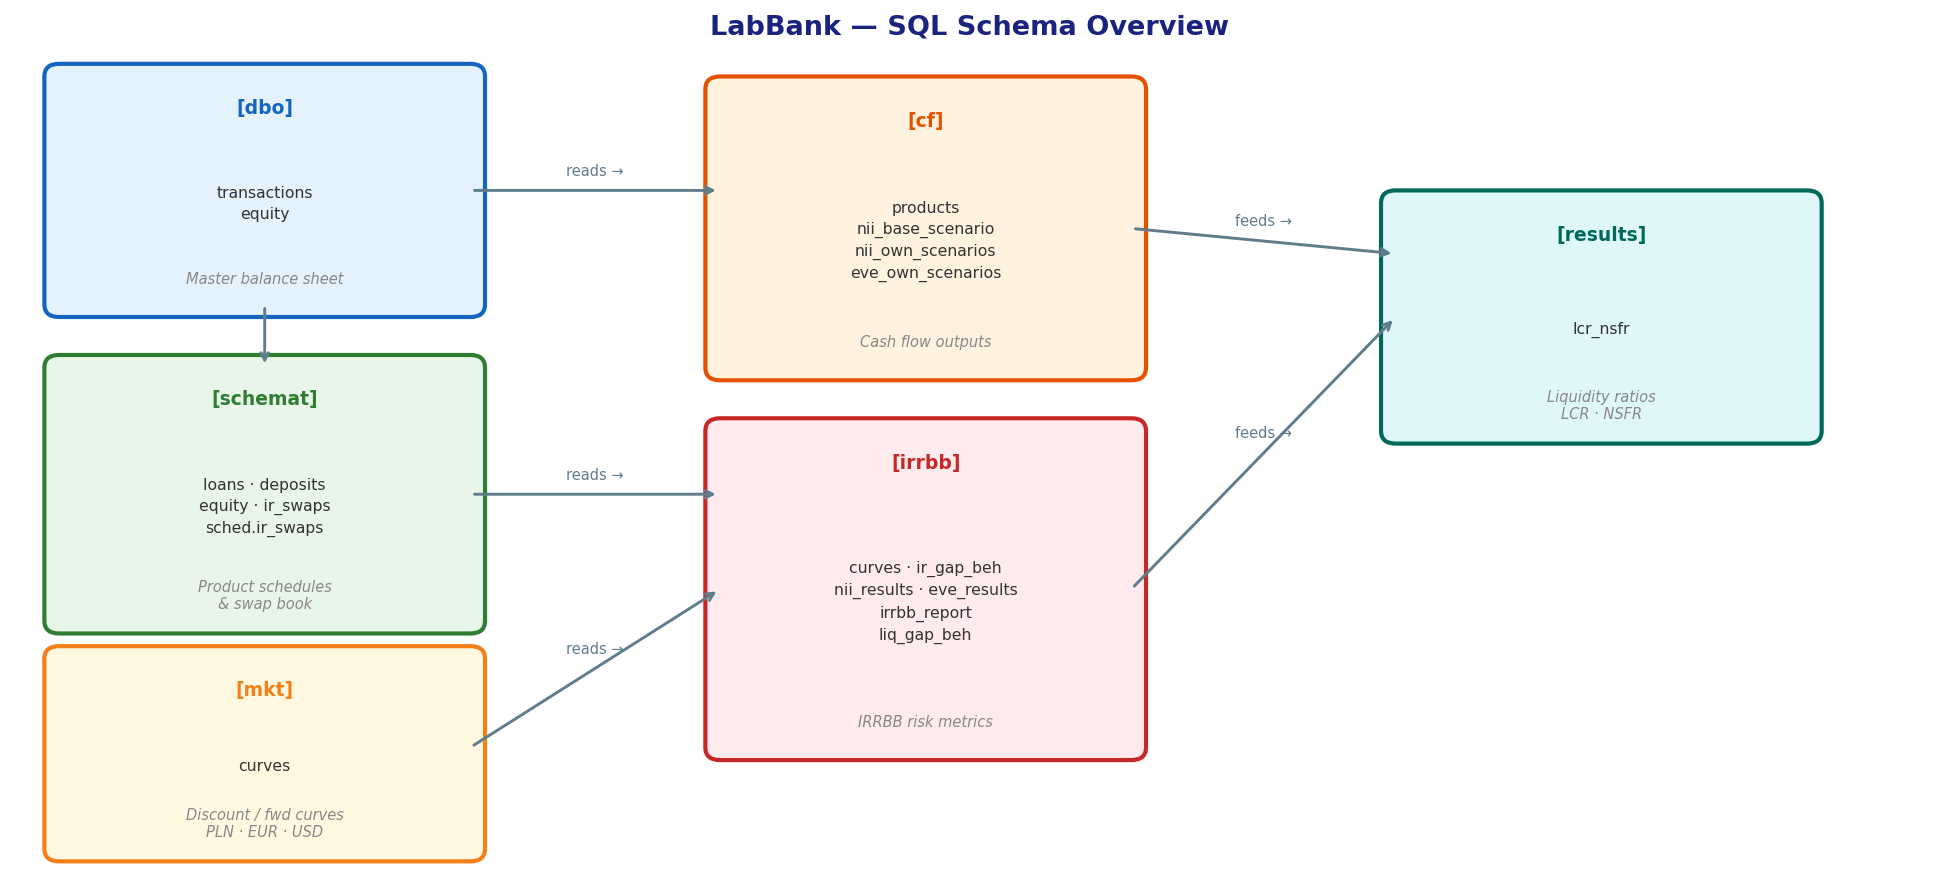
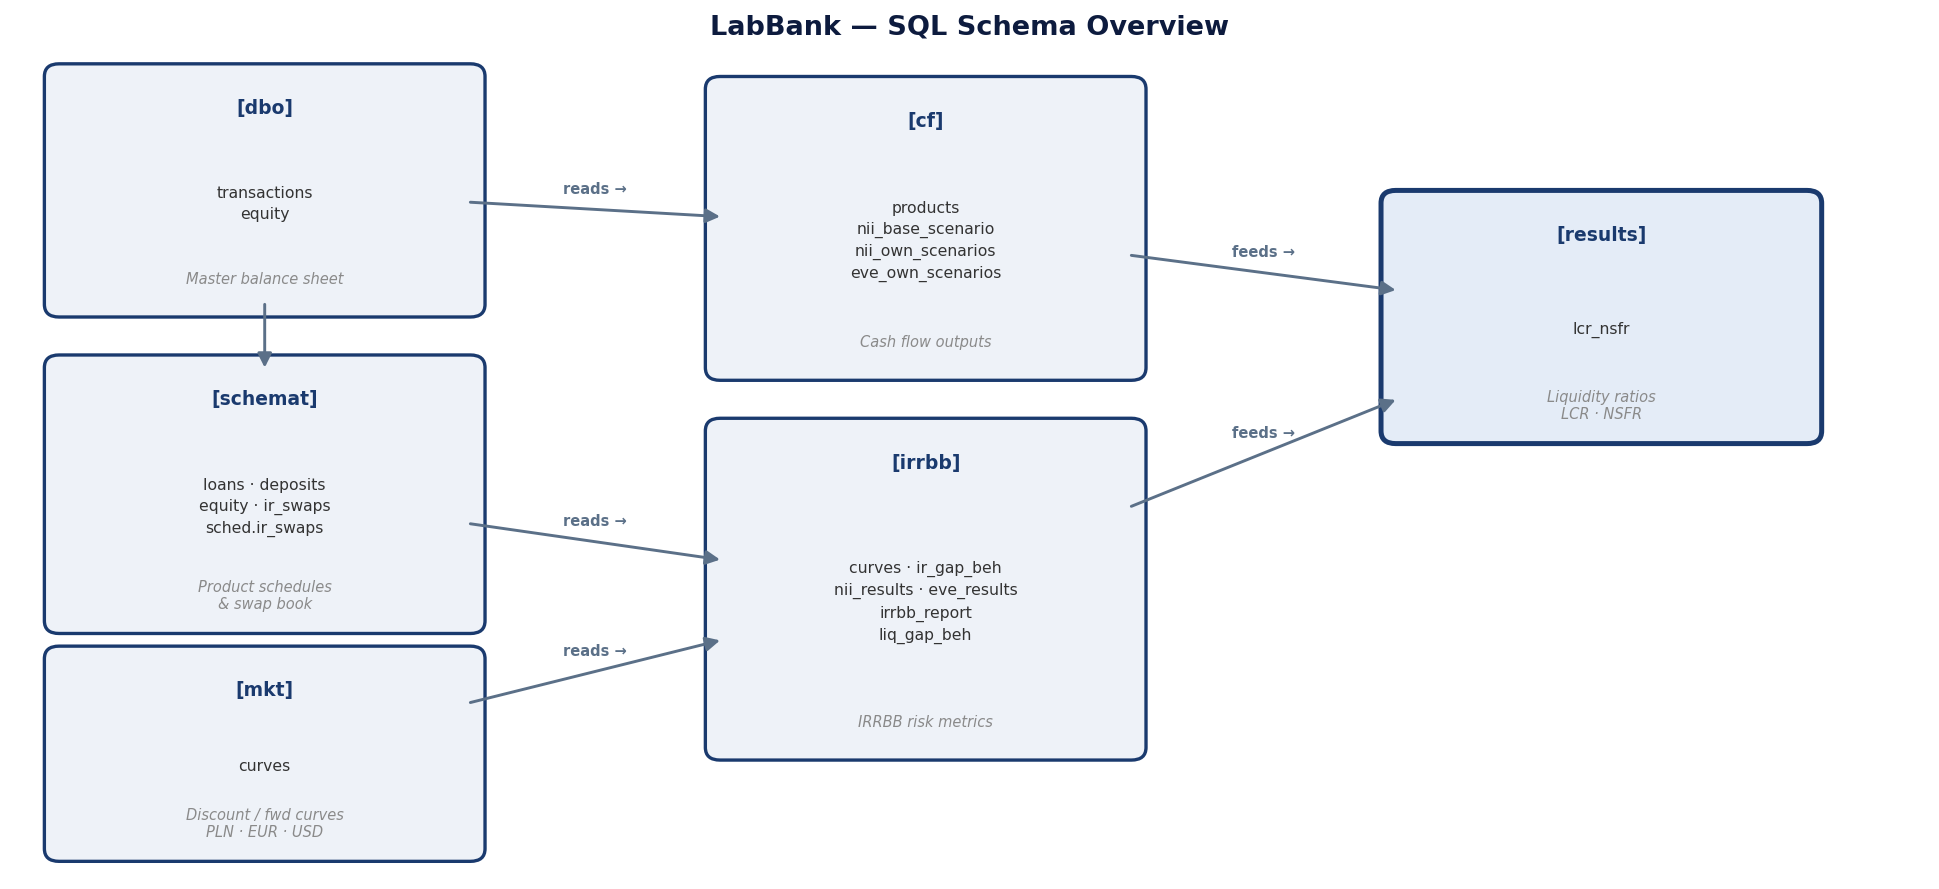
Redesign IRRBB/optimization report charts, fix two npz cache-staleness bugs
Chart cleanup (LinkedIn-facing report + beamer assets):
- NII by Scenario: drop locked/renewal stacked-bar split, note the EBA
  constant-balance-sheet assumption instead
- EVE by Scenario: restyle to match NII's single-bar-per-scenario shape
- LCR/NSFR: replace degenerate single-currency bar panels with big
  PASS/FAIL scorecard numbers (falls back to a real table if >1 currency)
- Regenerate the Balance Sheet tab annotation mockup for the current
  7-tab bar (ALM Metrics / Finance Metrics split) and drop its stale
  Composition-section callout
- Split the optimizer's Balance Sheet shift + EP waterfall out of a
  cramped 2x2 grid into their own full-width figures, reusing the
  notebook's existing plot_ep_waterfall() helper for consistency with
  Sections 5/9 (also fixes an EP-waterfall banner-text/title overlap bug)
- SQL schema + transaction ERD: replace the 6-hue rainbow palette with a
  single navy family, and replace hand-guessed arrow coordinates with a
  proper rectangle/ray intersection helper so every connector lands
  exactly on its box edge regardless of the angle between boxes; dropped
  the redundant "1"/"1" cardinality labels on the ERD (already stated
  once, in prose, in the subtitle)

Bug fixes surfaced by testing the sandbox app:
- Finance Metrics tab showed margin == 100% of NII: ftp_rates.npz was
  stale against product_params.npz's cohort set (regenerated after the
  T-bill product was added) -- rebuilt via build_ftp_rates.py
[…]

diff --git a/visual_rep/make_beamer_assets.py b/visual_rep/make_beamer_assets.py
@@ -190,56 +190,93 @@ def make_pipeline():
 
 
 # ── 2. SQL SCHEMA DIAGRAM ─────────────────────────────────────────────────────
+# ── Shared diagram palette (single navy family -- no per-box rainbow hues) ────
+_DIAG_NAVY       = '#1A3A6E'
+_DIAG_NAVY_DARK  = '#0D1B3E'
+_DIAG_FILL       = '#EEF2F8'
+_DIAG_FILL_END   = '#E4ECF7'   # marginally deeper tint for the pipeline's terminal box
+_DIAG_ARROW      = '#5B7088'
+_DIAG_DESC       = '#8A8A8A'
+
+
+def _rect_edge_point(box, target_center):
+    """Point where the ray from `box`'s center to `target_center` crosses
+    box's own boundary -- so a connector always lands exactly on the
+    rectangle edge (never floating off it or piercing past it), regardless
+    of the angle between the two boxes."""
+    x, y, w, h = box
+    cx, cy = x + w / 2, y + h / 2
+    tx, ty = target_center
+    dx, dy = tx - cx, ty - cy
+    if dx == 0 and dy == 0:
+        return (cx, cy)
+    scales = []
+    if dx != 0:
+        scales.append((w / 2) / abs(dx))
+    if dy != 0:
+        scales.append((h / 2) / abs(dy))
+    s = min(scales)
+    return (cx + dx * s, cy + dy * s)
+
+
 def make_sql_schema():
     fig, ax = plt.subplots(figsize=(13, 6))
     ax.set_xlim(0, 13); ax.set_ylim(0, 6.5)
     ax.axis('off')
     fig.patch.set_facecolor('white')
 
-    schemas = [
-        (0.3, 4.5, 2.8, 1.8, '#E3F2FD', '#1565C0', 'dbo',
-         'transactions\nequity', 'Master balance sheet'),
-        (0.3, 2.0, 2.8, 2.0, '#E8F5E9', '#2E7D32', 'schemat',
-         'loans · deposits\nequity · ir_swaps\nsched.ir_swaps', 'Product schedules\n& swap book'),
-        (0.3, 0.2, 2.8, 1.5, '#FFF8E1', '#F57F17', 'mkt',
-         'curves', 'Discount / fwd curves\nPLN · EUR · USD'),
-        (4.8, 4.0, 2.8, 2.2, '#FFF3E0', '#E65100', 'cf',
-         'products\nnii_base_scenario\nnii_own_scenarios\neve_own_scenarios', 'Cash flow outputs'),
-        (4.8, 1.0, 2.8, 2.5, '#FFEBEE', '#C62828', 'irrbb',
-         'curves · ir_gap_beh\nnii_results · eve_results\nirrbb_report\nliq_gap_beh', 'IRRBB risk metrics'),
-        (9.4, 3.5, 2.8, 1.8, '#E0F7FA', '#00695C', 'results',
-         'lcr_nsfr', 'Liquidity ratios\nLCR · NSFR'),
-    ]
+    schemas = {
+        'dbo':      (0.3, 4.5, 2.8, 1.8, 'transactions\nequity', 'Master balance sheet'),
+        'schemat':  (0.3, 2.0, 2.8, 2.0, 'loans · deposits\nequity · ir_swaps\nsched.ir_swaps',
+                     'Product schedules\n& swap book'),
+        'mkt':      (0.3, 0.2, 2.8, 1.5, 'curves', 'Discount / fwd curves\nPLN · EUR · USD'),
+        'cf':       (4.8, 4.0, 2.8, 2.2, 'products\nnii_base_scenario\nnii_own_scenarios\neve_own_scenarios',
+                     'Cash flow outputs'),
+        'irrbb':    (4.8, 1.0, 2.8, 2.5, 'curves · ir_gap_beh\nnii_results · eve_results\nirrbb_report\nliq_gap_beh',
+                     'IRRBB risk metrics'),
+        'results':  (9.4, 3.5, 2.8, 1.8, 'lcr_nsfr', 'Liquidity ratios\nLCR · NSFR'),
+    }
+    boxes = {name: (x, y, w, h) for name, (x, y, w, h, *_ ) in schemas.items()}
+    centers = {name: (x + w / 2, y + h / 2) for name, (x, y, w, h) in boxes.items()}
 
-    for (x, y, w, h, fc, ec, schema, tables, desc) in schemas:
+    for name, (x, y, w, h, tables, desc) in schemas.items():
+        is_terminal = (name == 'results')
         rect = FancyBboxPatch((x, y), w, h,
                               boxstyle='round,pad=0.1',
-                              facecolor=fc, edgecolor=ec, linewidth=2.0)
+                              facecolor=_DIAG_FILL_END if is_terminal else _DIAG_FILL,
+                              edgecolor=_DIAG_NAVY, linewidth=2.4 if is_terminal else 1.6)
         ax.add_patch(rect)
-        ax.text(x + w/2, y + h - 0.25, f'[{schema}]',
-                ha='center', va='center', fontsize=9, fontweight='bold', color=ec)
+        ax.text(x + w/2, y + h - 0.25, f'[{name}]',
+                ha='center', va='center', fontsize=9, fontweight='bold', color=_DIAG_NAVY)
         ax.text(x + w/2, y + h/2 - 0.1, tables,
                 ha='center', va='center', fontsize=7.5, color='#333333', linespacing=1.5)
         ax.text(x + w/2, y + 0.2, desc,
-                ha='center', va='center', fontsize=7, color='#888888', style='italic')
+                ha='center', va='center', fontsize=7, color=_DIAG_DESC, style='italic')
 
     links = [
-        (3.1, 5.4, 4.8, 5.4, 'reads →'),
-        (3.1, 3.0, 4.8, 3.0, 'reads →'),
-        (1.7, 4.5, 1.7, 4.0, ''),
-        (3.1, 1.0, 4.8, 2.25, 'reads →'),
-        (7.6, 5.1, 9.4, 4.9, 'feeds →'),
-        (7.6, 2.25, 9.4, 4.4, 'feeds →'),
+        ('dbo',     'cf',      'reads'),
+        ('schemat', 'irrbb',   'reads'),
+        ('dbo',     'schemat', None),
+        ('mkt',     'irrbb',   'reads'),
+        ('cf',      'results', 'feeds'),
+        ('irrbb',   'results', 'feeds'),
     ]
-    for (x1, y1, x2, y2, lbl) in links:
-        ax.annotate('', xy=(x2, y2), xytext=(x1, y1),
-                    arrowprops=dict(arrowstyle='->', color='#607D8B', lw=1.4))
+    for src, dst, lbl in links:
+        p1 = _rect_edge_point(boxes[src], centers[dst])
+        p2 = _rect_edge_point(boxes[dst], centers[src])
+        ax.annotate('', xy=p2, xytext=p1,
+                    arrowprops=dict(arrowstyle='-|>', color=_DIAG_ARROW, lw=1.4,
+                                    shrinkA=0, shrinkB=0, mutation_scale=14))
         if lbl:
-            mx, my = (x1+x2)/2, (y1+y2)/2
-            ax.text(mx, my+0.12, lbl, ha='center', fontsize=7, color='#607D8B')
+            mx, my = (p1[0] + p2[0]) / 2, (p1[1] + p2[1]) / 2
+            dx, dy = p2[0] - p1[0], p2[1] - p1[1]
+            perp_off = (0.16, 0.0) if abs(dy) > abs(dx) else (0.0, 0.16)
+            ax.text(mx + perp_off[0], my + perp_off[1], f'{lbl} →',
+                    ha='center', va='center', fontsize=7, color=_DIAG_ARROW,
+                    fontweight='bold')
 
     ax.set_title('LabBank — SQL Schema Overview', fontsize=13, fontweight='bold',
-                 pad=8, color='#1A237E')
+                 pad=8, color=_DIAG_NAVY_DARK)
     fig.tight_layout()
     save(fig, 'sql_schema.png')
 
@@ -253,7 +290,7 @@ def make_transaction_erd():
     ax.axis('off')
     fig.patch.set_facecolor('white')
 
-    def entity_box(x, y, w, h, header, cols, pk_idx=0, fc='#E3F2FD', ec='#1565C0'):
+    def entity_box(x, y, w, h, header, cols, pk_idx=0, fc=_DIAG_FILL, ec=_DIAG_NAVY):
         rect = FancyBboxPatch((x, y), w, h, boxstyle='square,pad=0',
                                facecolor=fc, edgecolor=ec, linewidth=1.6)
         ax.add_patch(rect)
@@ -290,7 +327,7 @@ def make_transaction_erd():
     ]
     hub_x, hub_y, hub_w, hub_h = 3.9, 3.15, 3.2, 2.85
     hub_rows = entity_box(hub_x, hub_y, hub_w, hub_h, 'dbo.transactions',
-                           hub_cols, fc='#FFF8E1', ec='#E65100')
+                           hub_cols, fc=_DIAG_FILL_END, ec=_DIAG_NAVY)
 
     children = [
         ('schemat.loans', [('transaction_id', 'FK'), ('rate_type  (F/V/A)', ''),
@@ -308,8 +345,11 @@ def make_transaction_erd():
     ]
 
     for name, cols, cx, cy, cw, ch in children:
-        rows = entity_box(cx, cy, cw, ch, name, cols, fc='#E8F5E9', ec='#2E7D32')
+        rows = entity_box(cx, cy, cw, ch, name, cols, fc=_DIAG_FILL, ec=_DIAG_NAVY)
         # connector: child's transaction_id (FK) row  ↔  hub's transaction_id (PK) row
+        # -- plain line, no arrowhead/cardinality marks: every relationship here
+        # is the same 1:1 FK-to-PK pattern, already stated once in the subtitle
+        # below, so repeating "1 ... 1" at each line was pure clutter.
         cxr0, cxr1, cyr = rows['transaction_id']
         hxr0, hxr1, hyr = hub_rows['transaction_id']
         child_pt = (cxr0, cyr) if cxr0 > hub_x + hub_w else \
@@ -317,16 +357,11 @@ def make_transaction_erd():
         hub_pt = (hxr1, hyr) if child_pt[0] >= hxr1 else \
                  (hxr0, hyr) if child_pt[0] <= hxr0 else (hxr0, hyr)
         ax.plot([hub_pt[0], child_pt[0]], [hub_pt[1], child_pt[1]],
-                color='#455A64', lw=1.3, zorder=1,
+                color=_DIAG_ARROW, lw=1.3, zorder=1,
                 solid_capstyle='round')
-        # cardinality: 1 : 1 — each transaction has at most one matching detail row
-        ax.text(hub_pt[0] + (0.18 if child_pt[0] >= hxr1 else -0.18), hub_pt[1] + 0.14,
-                '1', ha='center', fontsize=8, fontweight='bold', color='#455A64')
-        ax.text(child_pt[0] + (-0.18 if child_pt[0] >= hxr1 else 0.18), child_pt[1] + 0.14,
-                '1', ha='center', fontsize=8, fontweight='bold', color='#455A64')
 
     ax.set_title('LabBank — Core Entity Relationships  (dbo.transactions hub)',
-                 fontsize=13, fontweight='bold', y=0.98, color='#1A237E')
+                 fontsize=13, fontweight='bold', y=0.98, color=_DIAG_NAVY_DARK)
     ax.text(5.5, 9.15,
             'One row per position in dbo.transactions; each schemat.* table adds product-specific\n'
             'detail for the same transaction_id (1:1 — every position belongs to exactly one product table).',
